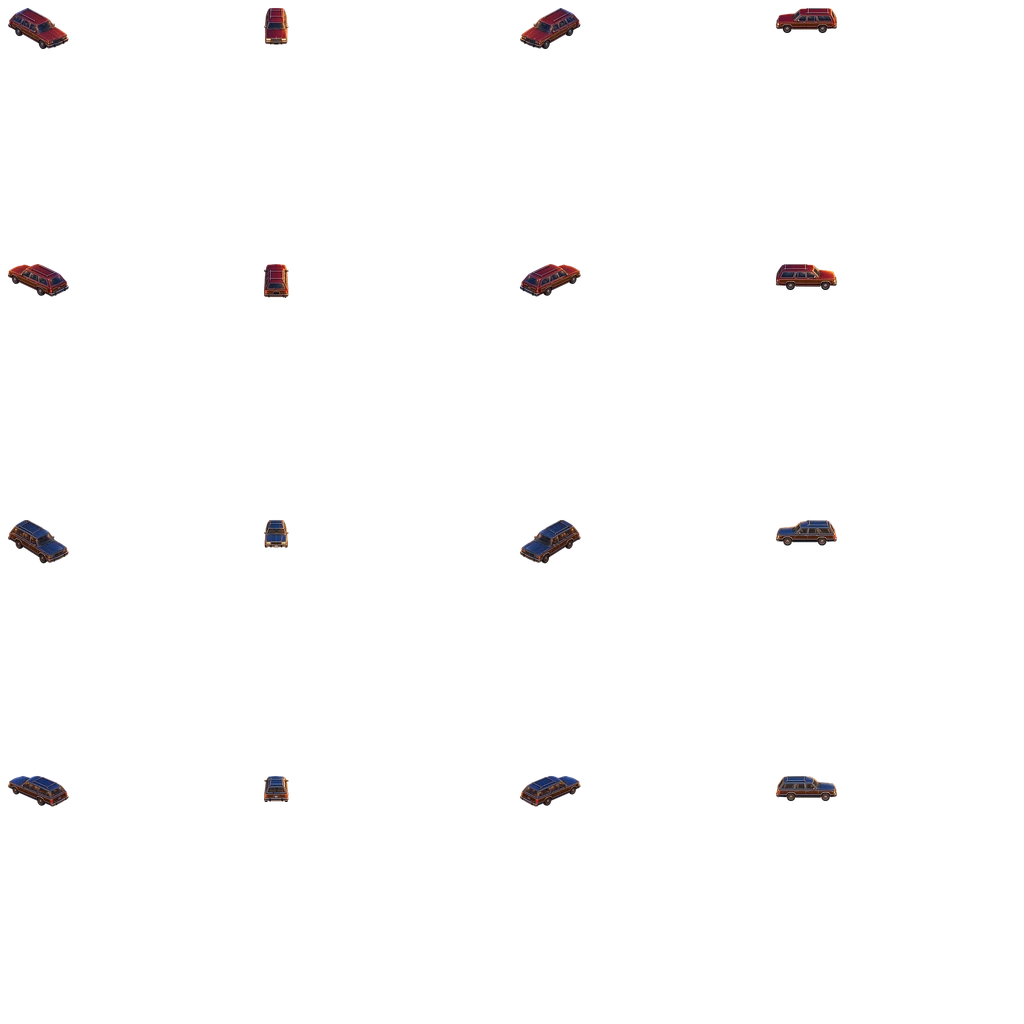
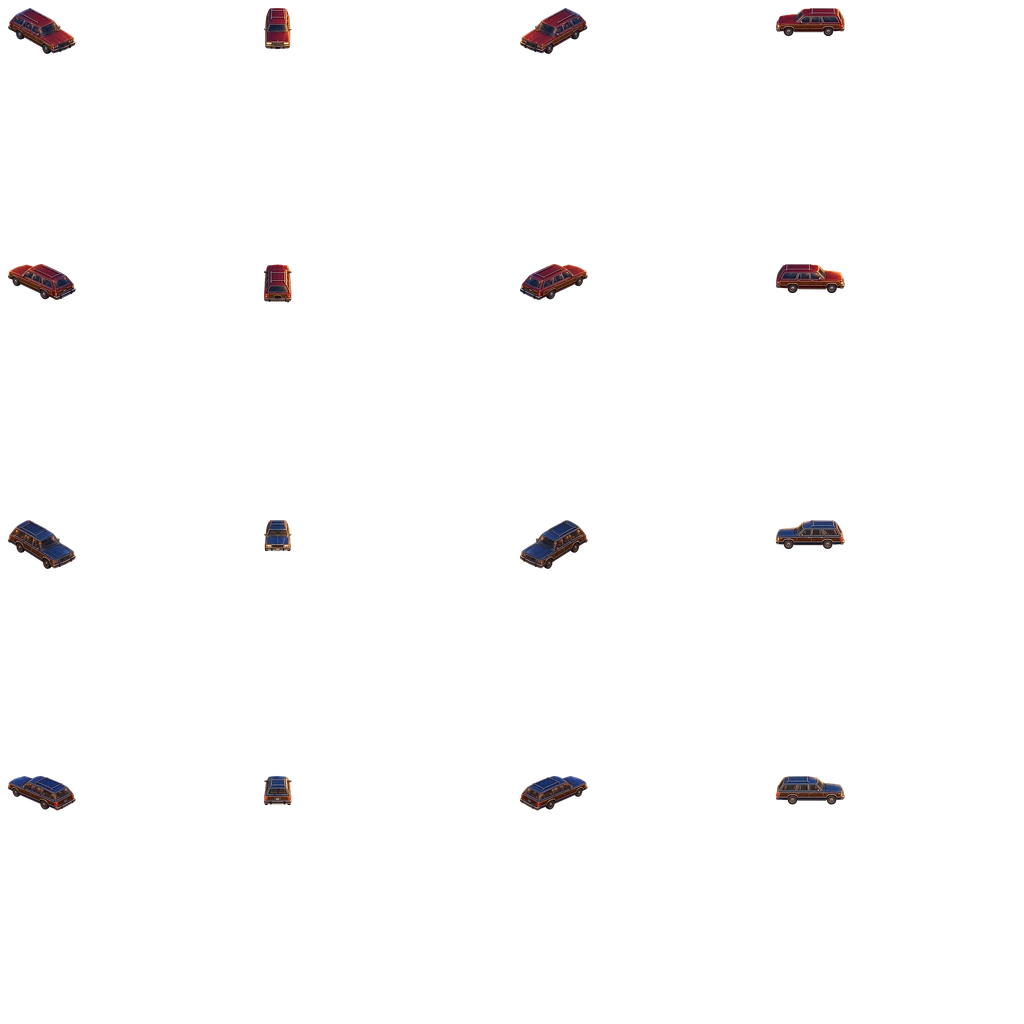
[T313] Cars: one size per class (compact 4.2 m, sedan 4.8, pickup 5.2, bus 12), each picture measured on its pixels
car-lengths.ts measures every car picture's body length from the atlas (side, end and corner views by the set's own proportions) into
ext/car-art/car-lengths.json; each model gets a class (model.mjs CAR_CLASS) and its studio size class length / (CAR_SCALE x reference);
each picture is drawn at its model's size times reference / its own length (carPictureFactor, in carOwnerScale), so every picture of a
model shows one body. The studio card and the lot editor step the model size with the factor shown. Cars page repacked at the new size.

diff --git a/src/game/cars-library.ts b/src/game/cars-library.ts
@@ -7,7 +7,7 @@ import m1 from '../assets/cars/cars-1.webp';
 import m2 from '../assets/cars/cars-2.webp';
 import m3 from '../assets/cars/cars-3.webp';
 import m4 from '../assets/cars/cars-4.webp';
-const ITEMS: LibItem[] = [{"id":"cars:burgundy-wagon:SE","name":"burgundy wagon SE","cat":"Vehicles","kind":"car","w":201.6,"h":137.3627254509018,"ax":100.8,"ay":86.96272545090179,"boxes":[{"hx":2.25,"hy":0.9,"dx":0,"dy":0}],"solid":2,"big":true,"door":false,"cost":6300,"tex":[0,0.0078125,0.0078125,0.06689453125,0.0478515625],"quad":[0,0,201.6,137.3627254509018]},{"id":"cars:burgundy-wagon:S","name":"burgundy wagon S","cat":"Vehicles","kind":"car","w":81.45870119269028,"h":121.45197918789665,"ax":40.72935059634514,"ay":70.54029094246523,"boxes":[{"hx":2.2273863607376247,"hy":2.2273863607376247,"dx":0,"dy":0}],"solid":2,"big":true,"door":false,"cost":6300,"tex":[0,0.2578125,0.0078125,0.28173828125,0.04345703125],"quad":[0,0,81.45870119269028,121.45197918789665]},{"id":"cars:burgundy-wagon:SW","name":"burgundy wagon SW","cat":"Vehicles","kind":"car","w":201.59999999999997,"h":137.36272545090176,"ax":100.79999999999998,"ay":86.96272545090176,"boxes":[{"hx":0.9000000000000001,"hy":2.25,"dx":0,"dy":0}],"solid":2,"big":true,"door":false,"cost":6300,"tex":[0,0.5078125,0.0078125,0.56689453125,0.0478515625],"quad":[0,0,201.59999999999997,137.36272545090176]},{"id":"cars:burgundy-wagon:W","name":"burgundy wagon W","cat":"Vehicles","kind":"car","w":203.64675298172568,"h":83.7092448240247,"ax":101.82337649086284,"ay":63.34456952585212,"boxes":[{"hx":2.2273863607376247,"hy":2.2273863607376247,"dx":0,"dy":0}],"solid":2,"big":true,"door":false,"cost":6300,"tex":[0,0.7578125,0.0078125,0.8173828125,0.0322265625],"quad":[0,0,203.64675298172568,83.7092448240247]},{"id":"cars:burgundy-wagon:NW","name":"burgundy wagon NW","cat":"Vehicles","kind":"car","w":201.60000000000002,"h":107.87014028056113,"ax":100.80000000000001,"ay":57.47014028056113,"boxes":[{"hx":2.25,"hy":0.9000000000000002,"dx":0,"dy":0}],"solid":2,"big":true,"door":false,"cost":6300,"tex":[0,0.0078125,0.2578125,0.06689453125,0.28955078125],"quad":[0,0,201.60000000000002,107.87014028056113]},{"id":"cars:burgundy-wagon:N","name":"burgundy wagon N","cat":"Vehicles","kind":"car","w":81.45870119269031,"h":113.9390693897757,"ax":40.72935059634516,"ay":63.02738114434427,"boxes":[{"hx":2.227386360737625,"hy":2.2273863607376247,"dx":0,"dy":0}],"solid":2,"big":true,"door":false,"cost":6300,"tex":[0,0.2578125,0.2578125,0.28173828125,0.291015625],"quad":[0,0,81.45870119269031,113.9390693897757]},{"id":"cars:burgundy-wagon:NE","name":"burgundy wagon NE","cat":"Vehicles","kind":"car","w":201.6,"h":107.87014028056112,"ax":100.8,"ay":57.47014028056111,"boxes":[{"hx":0.9000000000000005,"hy":2.25,"dx":0,"dy":0}],"solid":2,"big":true,"door":false,"cost":6300,"tex":[0,0.5078125,0.2578125,0.56689453125,0.28955078125],"quad":[0,0,201.6,107.87014028056112]},{"id":"cars:burgundy-wagon:E","name":"burgundy wagon E","cat":"Vehicles","kind":"car","w":203.6467529817257,"h":86.4379761969138,"ax":101.82337649086286,"ay":66.07330089874122,"boxes":[{"hx":2.2273863607376243,"hy":2.2273863607376247,"dx":0,"dy":0}],"solid":2,"big":true,"door":false,"cost":6300,"tex":[0,0.7578125,0.2578125,0.8173828125,0.283203125],"quad":[0,0,203.6467529817257,86.4379761969138]},{"id":"cars:navy-wood-panel-wagon:SE","name":"navy wood panel wagon SE","cat":"Vehicles","kind":"car","w":201.6,"h":145.82134387351778,"ax":100.8,"ay":95.42134387351777,"boxes":[{"hx":2.25,"hy":0.9,"dx":0,"dy":0}],"solid":2,"big":true,"door":false,"cost":6300,"tex":[0,0.0078125,0.5078125,0.06689453125,0.55029296875],"quad":[0,0,201.6,145.82134387351778]},{"id":"cars:navy-wood-panel-wagon:S","name":"navy wood panel wagon S","cat":"Vehicles","kind":"car","w":81.45870119269028,"h":91.97672030273546,"ax":40.72935059634514,"ay":41.06503205730404,"boxes":[{"hx":2.2273863607376247,"hy":2.2273863607376247,"dx":0,"dy":0}],"solid":2,"big":true,"door":false,"cost":6300,"tex":[0,0.2578125,0.5078125,0.28173828125,0.53466796875],"quad":[0,0,81.45870119269028,91.97672030273546]},{"id":"cars:navy-wood-panel-wagon:SW","name":"navy wood panel wagon SW","cat":"Vehicles","kind":"car","w":201.59999999999997,"h":145.82134387351775,"ax":100.79999999999998,"ay":95.42134387351774,"boxes":[{"hx":0.9000000000000001,"hy":2.25,"dx":0,"dy":0}],"solid":2,"big":true,"door":false,"cost":6300,"tex":[0,0.5078125,0.5078125,0.56689453125,0.55029296875],"quad":[0,0,201.59999999999997,145.82134387351775]},{"id":"cars:navy-wood-panel-wagon:W","name":"navy wood panel wagon W","cat":"Vehicles","kind":"car","w":203.64675298172568,"h":85.57805146667958,"ax":101.82337649086284,"ay":65.21337616850701,"boxes":[{"hx":2.2273863607376247,"hy":2.2273863607376247,"dx":0,"dy":0}],"solid":2,"big":true,"door":false,"cost":6300,"tex":[0,0.7578125,0.5078125,0.8173828125,0.53271484375],"quad":[0,0,203.64675298172568,85.57805146667958]},{"id":"cars:navy-wood-panel-wagon:NW","name":"navy wood panel wagon NW","cat":"Vehicles","kind":"car","w":201.60000000000002,"h":102.39367588932807,"ax":100.80000000000001,"ay":51.99367588932807,"boxes":[{"hx":2.25,"hy":0.9000000000000002,"dx":0,"dy":0}],"solid":2,"big":true,"door":false,"cost":6300,"tex":[0,0.0078125,0.7578125,0.06689453125,0.78759765625],"quad":[0,0,201.60000000000002,102.39367588932807]},{"id":"cars:navy-wood-panel-wagon:N","name":"navy wood panel wagon N","cat":"Vehicles","kind":"car","w":81.45870119269031,"h":86.62322979856692,"ax":40.72935059634516,"ay":35.7115415531355,"boxes":[{"hx":2.227386360737625,"hy":2.2273863607376247,"dx":0,"dy":0}],"solid":2,"big":true,"door":false,"cost":6300,"tex":[0,0.2578125,0.7578125,0.28173828125,0.783203125],"quad":[0,0,81.45870119269031,86.62322979856692]},{"id":"cars:navy-wood-panel-wagon:NE","name":"navy wood panel wagon NE","cat":"Vehicles","kind":"car","w":201.6,"h":102.39367588932805,"ax":100.8,"ay":51.993675889328046,"boxes":[{"hx":0.9000000000000005,"hy":2.25,"dx":0,"dy":0}],"solid":2,"big":true,"door":false,"cost":6300,"tex":[0,0.5078125,0.7578125,0.56689453125,0.78759765625],"quad":[0,0,201.6,102.39367588932805]},{"id":"cars:navy-wood-panel-wagon:E","name":"navy wood panel wagon E","cat":"Vehicles","kind":"car","w":203.6467529817257,"h":84.12757601809182,"ax":101.82337649086286,"ay":63.76290071991924,"boxes":[{"hx":2.2273863607376243,"hy":2.2273863607376247,"dx":0,"dy":0}],"solid":2,"big":true,"door":false,"cost":6300,"tex":[0,0.7578125,0.7578125,0.8173828125,0.7822265625],"quad":[0,0,203.6467529817257,84.12757601809182]}];
+const ITEMS: LibItem[] = [{"id":"cars:burgundy-wagon:SE","name":"burgundy wagon SE","cat":"Vehicles","kind":"car","w":201.6,"h":137.3627254509018,"ax":100.8,"ay":86.96272545090179,"boxes":[{"hx":2.25,"hy":0.9,"dx":0,"dy":0}],"solid":2,"big":true,"door":false,"cost":6300,"tex":[0,0.0078125,0.0078125,0.07373046875,0.052734375],"quad":[0,0,201.6,137.3627254509018]},{"id":"cars:burgundy-wagon:S","name":"burgundy wagon S","cat":"Vehicles","kind":"car","w":81.45870119269028,"h":121.45197918789665,"ax":40.72935059634514,"ay":70.54029094246523,"boxes":[{"hx":2.2273863607376247,"hy":2.2273863607376247,"dx":0,"dy":0}],"solid":2,"big":true,"door":false,"cost":6300,"tex":[0,0.2578125,0.0078125,0.28466796875,0.0478515625],"quad":[0,0,81.45870119269028,121.45197918789665]},{"id":"cars:burgundy-wagon:SW","name":"burgundy wagon SW","cat":"Vehicles","kind":"car","w":201.59999999999997,"h":137.36272545090176,"ax":100.79999999999998,"ay":86.96272545090176,"boxes":[{"hx":0.9000000000000001,"hy":2.25,"dx":0,"dy":0}],"solid":2,"big":true,"door":false,"cost":6300,"tex":[0,0.5078125,0.0078125,0.57373046875,0.052734375],"quad":[0,0,201.59999999999997,137.36272545090176]},{"id":"cars:burgundy-wagon:W","name":"burgundy wagon W","cat":"Vehicles","kind":"car","w":203.64675298172568,"h":83.7092448240247,"ax":101.82337649086284,"ay":63.34456952585212,"boxes":[{"hx":2.2273863607376247,"hy":2.2273863607376247,"dx":0,"dy":0}],"solid":2,"big":true,"door":false,"cost":6300,"tex":[0,0.7578125,0.0078125,0.82470703125,0.03515625],"quad":[0,0,203.64675298172568,83.7092448240247]},{"id":"cars:burgundy-wagon:NW","name":"burgundy wagon NW","cat":"Vehicles","kind":"car","w":201.60000000000002,"h":107.87014028056113,"ax":100.80000000000001,"ay":57.47014028056113,"boxes":[{"hx":2.25,"hy":0.9000000000000002,"dx":0,"dy":0}],"solid":2,"big":true,"door":false,"cost":6300,"tex":[0,0.0078125,0.2578125,0.07373046875,0.29296875],"quad":[0,0,201.60000000000002,107.87014028056113]},{"id":"cars:burgundy-wagon:N","name":"burgundy wagon N","cat":"Vehicles","kind":"car","w":81.45870119269031,"h":113.9390693897757,"ax":40.72935059634516,"ay":63.02738114434427,"boxes":[{"hx":2.227386360737625,"hy":2.2273863607376247,"dx":0,"dy":0}],"solid":2,"big":true,"door":false,"cost":6300,"tex":[0,0.2578125,0.2578125,0.28466796875,0.29541015625],"quad":[0,0,81.45870119269031,113.9390693897757]},{"id":"cars:burgundy-wagon:NE","name":"burgundy wagon NE","cat":"Vehicles","kind":"car","w":201.6,"h":107.87014028056112,"ax":100.8,"ay":57.47014028056111,"boxes":[{"hx":0.9000000000000005,"hy":2.25,"dx":0,"dy":0}],"solid":2,"big":true,"door":false,"cost":6300,"tex":[0,0.5078125,0.2578125,0.57373046875,0.29296875],"quad":[0,0,201.6,107.87014028056112]},{"id":"cars:burgundy-wagon:E","name":"burgundy wagon E","cat":"Vehicles","kind":"car","w":203.6467529817257,"h":86.4379761969138,"ax":101.82337649086286,"ay":66.07330089874122,"boxes":[{"hx":2.2273863607376243,"hy":2.2273863607376247,"dx":0,"dy":0}],"solid":2,"big":true,"door":false,"cost":6300,"tex":[0,0.7578125,0.2578125,0.82470703125,0.2861328125],"quad":[0,0,203.6467529817257,86.4379761969138]},{"id":"cars:navy-wood-panel-wagon:SE","name":"navy wood panel wagon SE","cat":"Vehicles","kind":"car","w":201.6,"h":145.82134387351778,"ax":100.8,"ay":95.42134387351777,"boxes":[{"hx":2.25,"hy":0.9,"dx":0,"dy":0}],"solid":2,"big":true,"door":false,"cost":6300,"tex":[0,0.0078125,0.5078125,0.07373046875,0.5556640625],"quad":[0,0,201.6,145.82134387351778]},{"id":"cars:navy-wood-panel-wagon:S","name":"navy wood panel wagon S","cat":"Vehicles","kind":"car","w":81.45870119269028,"h":91.97672030273546,"ax":40.72935059634514,"ay":41.06503205730404,"boxes":[{"hx":2.2273863607376247,"hy":2.2273863607376247,"dx":0,"dy":0}],"solid":2,"big":true,"door":false,"cost":6300,"tex":[0,0.2578125,0.5078125,0.28466796875,0.5380859375],"quad":[0,0,81.45870119269028,91.97672030273546]},{"id":"cars:navy-wood-panel-wagon:SW","name":"navy wood panel wagon SW","cat":"Vehicles","kind":"car","w":201.59999999999997,"h":145.82134387351775,"ax":100.79999999999998,"ay":95.42134387351774,"boxes":[{"hx":0.9000000000000001,"hy":2.25,"dx":0,"dy":0}],"solid":2,"big":true,"door":false,"cost":6300,"tex":[0,0.5078125,0.5078125,0.57373046875,0.5556640625],"quad":[0,0,201.59999999999997,145.82134387351775]},{"id":"cars:navy-wood-panel-wagon:W","name":"navy wood panel wagon W","cat":"Vehicles","kind":"car","w":203.64675298172568,"h":85.57805146667958,"ax":101.82337649086284,"ay":65.21337616850701,"boxes":[{"hx":2.2273863607376247,"hy":2.2273863607376247,"dx":0,"dy":0}],"solid":2,"big":true,"door":false,"cost":6300,"tex":[0,0.7578125,0.5078125,0.82470703125,0.5361328125],"quad":[0,0,203.64675298172568,85.57805146667958]},{"id":"cars:navy-wood-panel-wagon:NW","name":"navy wood panel wagon NW","cat":"Vehicles","kind":"car","w":201.60000000000002,"h":102.39367588932807,"ax":100.80000000000001,"ay":51.99367588932807,"boxes":[{"hx":2.25,"hy":0.9000000000000002,"dx":0,"dy":0}],"solid":2,"big":true,"door":false,"cost":6300,"tex":[0,0.0078125,0.7578125,0.07373046875,0.79150390625],"quad":[0,0,201.60000000000002,102.39367588932807]},{"id":"cars:navy-wood-panel-wagon:N","name":"navy wood panel wagon N","cat":"Vehicles","kind":"car","w":81.45870119269031,"h":86.62322979856692,"ax":40.72935059634516,"ay":35.7115415531355,"boxes":[{"hx":2.227386360737625,"hy":2.2273863607376247,"dx":0,"dy":0}],"solid":2,"big":true,"door":false,"cost":6300,"tex":[0,0.2578125,0.7578125,0.28466796875,0.7861328125],"quad":[0,0,81.45870119269031,86.62322979856692]},{"id":"cars:navy-wood-panel-wagon:NE","name":"navy wood panel wagon NE","cat":"Vehicles","kind":"car","w":201.6,"h":102.39367588932805,"ax":100.8,"ay":51.993675889328046,"boxes":[{"hx":0.9000000000000005,"hy":2.25,"dx":0,"dy":0}],"solid":2,"big":true,"door":false,"cost":6300,"tex":[0,0.5078125,0.7578125,0.57373046875,0.79150390625],"quad":[0,0,201.6,102.39367588932805]},{"id":"cars:navy-wood-panel-wagon:E","name":"navy wood panel wagon E","cat":"Vehicles","kind":"car","w":203.6467529817257,"h":84.12757601809182,"ax":101.82337649086286,"ay":63.76290071991924,"boxes":[{"hx":2.2273863607376243,"hy":2.2273863607376247,"dx":0,"dy":0}],"solid":2,"big":true,"door":false,"cost":6300,"tex":[0,0.7578125,0.7578125,0.82470703125,0.78564453125],"quad":[0,0,203.6467529817257,84.12757601809182]}];
 /** Append after the base library/walker frames, preserving every existing saved item index. */
 export function appendCars(library: LibItem[], pages: string[][]) {
   const page = pages.length; pages.push([m0, m1, m2, m3, m4]);

diff --git a/scripts/assets/car-lengths.ts b/scripts/assets/car-lengths.ts
@@ -1,0 +1,84 @@
+// T313 (#898): measure every car picture's body length, so every car of a class is drawn at one real-world length (ext/car-art model.mjs
+// CLASS_LENGTH). Writes src/game/ext/car-art/car-lengths.json; with --sizes it also sets each car model's studio size (scale-overrides.json) to
+// its class length over CAR_SCALE x its reference length.
+//   npx esbuild scripts/assets/car-lengths.ts --bundle --platform=node --format=esm --loader:.webp=file --loader:.png=file --external:sharp \
+//     --outdir=output/car-lengths --log-level=warning && node output/car-lengths/car-lengths.js [--sizes]
+// The measure: a picture's car pixels (alpha > 128) in its atlas rect, as display px (64 px a tile of 2 m along a screen axis, 64 sqrt 2 along a
+// world axis). Each picture is one of three kinds by where its nose points on screen:
+//   side  nose left or right: the body's width on screen is its length alone (64 sqrt 2 px a tile)
+//   end   nose up or down: its width on screen is the car's width; its length is its set's side length times its width over the set's end width
+//   diag  nose along a world axis (the iso corners): its width on screen is length + width (64 px a tile); the length is that times the set's
+//         side length over side length + end width (the set's own proportions, not the class's: a stylised bus is wider than a real one)
+// A set is the pictures of one render: an eight-way car's eight headings, a town car's facing and its four views, a screen-axis set (view:<id>:n|e|s|w).
+// Each picture's length at scale 1 is kept; a model's reference length is the median of its pictures'. A picture is drawn at its model's size times
+// reference / its own length (carPictureFactor), so a model's pictures all show one body length, and the model's size sets it.
+import fs from 'node:fs';
+import path from 'node:path';
+import { createRequire } from 'node:module';
+import { fileURLToPath } from 'node:url';
+import { LIBRARY, ATLAS_PAGES } from '../../src/game/library';
+import { CAR_SCALE, carModel } from '../../src/game/ext/car-art';
+import { CAR_CLASS, CLASS_LENGTH } from '../../src/game/ext/car-art/model.mjs';
+
+const here = path.dirname(fileURLToPath(import.meta.url)), ROOT = path.resolve(here, '../..');
+const sharp = createRequire(path.join(ROOT, 'package.json'))('sharp') as typeof import('sharp');
+const R2 = 64 * Math.SQRT2;
+type Kind = 'side' | 'end' | 'diag';
+const kindOf = (id: string): Kind => {
+  let m: RegExpExecArray | null;
+  if (id.startsWith('cars:')) return ({ SE: 'diag', SW: 'diag', NW: 'diag', NE: 'diag', S: 'end', N: 'end', E: 'side', W: 'side' } as const)[id.split(':').at(-1) as 'S']!;
+  if ((m = /^view:.+:([nesw])$/.exec(id))) return ({ n: 'end', s: 'end', e: 'side', w: 'side' } as const)[m[1] as 'n'];
+  // a variation's views: 1 the side, 2 and 3 the ends, 4 the corner (prep-views.mjs)
+  if ((m = /^variation:.+:(\d)$/.exec(id))) return ({ 1: 'side', 2: 'end', 3: 'end', 4: 'diag' } as Record<string, Kind>)[m[1]!]!;
+  return 'diag';
+};
+const setOf = (id: string): string => {
+  let m: RegExpExecArray | null;
+  if (id.startsWith('cars:')) return id.replace(/:[A-Z]+$/, '');
+  if ((m = /^view:(.+):[nesw]$/.exec(id))) return `view:${m[1]}`;
+  if ((m = /^variation:([a-z]+)-(.+)-[0-9a-f]{8}:\d$/.exec(id))) return `${m[1]}:${m[2]}`;
+  return id;
+};
+
+/** a picture's car pixels across, in display px */
+async function across(i: number): Promise<number> {
+  const it = LIBRARY[i]!, f = path.join(ROOT, 'output/car-lengths', ATLAS_PAGES[it.tex[0]]![0]!);
+  const S = (await sharp(f).metadata()).width!, [, u0, v0, u1, v1] = it.tex;
+  const left = Math.round(u0 * S), top = Math.round(v0 * S), width = Math.round((u1 - u0) * S), height = Math.round((v1 - v0) * S);
+  const { data, info } = await sharp(f).extract({ left, top, width, height }).raw().toBuffer({ resolveWithObject: true });
+  let x0 = Infinity, x1 = -1;
+  for (let y = 0; y < info.height; y++) for (let x = 0; x < info.width; x++) if (data[(y * info.width + x) * info.channels + 3]! > 128) { x0 = Math.min(x0, x); x1 = Math.max(x1, x); }
+  return (x1 - x0 + 1) / info.width * (it.quad[2] - it.quad[0]);
+}
+
+const cars = LIBRARY.map((it, i) => ({ it, i })).filter(c => c.it.kind === 'car');
+const px = new Map<string, number>();
+for (const c of cars) px.set(c.it.id, await across(c.i));
+const sets = new Map<string, string[]>();
+for (const c of cars) { const s = setOf(c.it.id); sets.set(s, [...(sets.get(s) ?? []), c.it.id]); }
+const mean = (a: number[]) => a.reduce((x, y) => x + y, 0) / a.length;
+const len: Record<string, number> = {};
+for (const [s, ids] of sets) {
+  const L = mean(ids.filter(id => kindOf(id) === 'side').map(id => px.get(id)! / R2 * 2)), W = mean(ids.filter(id => kindOf(id) === 'end').map(id => px.get(id)! / R2 * 2));
+  if (!(L > 0) || !(W > 0)) throw new Error(`${s}: a set needs a side and an end view to be measured`);
+  for (const id of ids) { const k = kindOf(id), p = px.get(id)!; len[id] = +(k === 'side' ? p / R2 * 2 : k === 'end' ? L * (p / R2 * 2) / W : p / 32 * L / (L + W)).toFixed(3); }
+}
+const models: Record<string, number> = {};
+for (const m of new Set(cars.map(c => carModel(c.it.id)))) {
+  const ls = cars.filter(c => carModel(c.it.id) === m).map(c => len[c.it.id]!).sort((a, b) => a - b);
+  models[m] = ls[Math.floor(ls.length / 2)]!;
+}
+const sorted = <T>(o: Record<string, T>) => Object.fromEntries(Object.entries(o).sort());  // overrides.mjs's order
+fs.writeFileSync(path.join(ROOT, 'src/game/ext/car-art/car-lengths.json'), JSON.stringify({ models: sorted(models), pictures: sorted(len) }, null, 1) + '\n');
+const sizes: Record<string, number> = {};
+for (const [m, ref] of Object.entries(models)) {
+  const cls = (CAR_CLASS as Record<string, keyof typeof CLASS_LENGTH>)[m];
+  if (!cls) { console.warn(`${m}: no class (model.mjs CAR_CLASS)`); continue; }
+  sizes[m] = +(CLASS_LENGTH[cls] / (CAR_SCALE * ref)).toFixed(3);
+  console.log(`${m.padEnd(28)} ${cls.padEnd(8)} reference ${ref.toFixed(2)} m at 1, size ${sizes[m]}`);
+}
+if (process.argv.includes('--sizes')) {
+  const f = path.join(ROOT, 'scripts/assets/scale-overrides.json'), cur = JSON.parse(fs.readFileSync(f, 'utf8')) as Record<string, number>;
+  fs.writeFileSync(f, JSON.stringify(sorted({ ...cur, ...sizes }), null, 1) + '\n');
+  console.log('scale-overrides.json: the car models\' sizes set');
+}

diff --git a/src/game/ext/car-art/index.ts b/src/game/ext/car-art/index.ts
@@ -1,6 +1,7 @@
 import { STUDIO_SCALE } from '../../lots/scales';
-import { carModel, carModelSize } from './model.mjs';
-export { CAR_MODEL_NAMES, carModel, carModelName, carModelSize, foldCarSizes } from './model.mjs';
+import { carModel, carModelSize, carPictureFactorIn } from './model.mjs';
+import CAR_LENGTHS from './car-lengths.json';
+export { CAR_CLASS, CAR_MODEL_NAMES, CLASS_LENGTH, carModel, carModelName, carModelSize, foldCarSizes, type CarClass } from './model.mjs';
 
 /** Eight sprite headings in world-angle order. The delivery labels describe the nose on screen. */
 export const CAR_DIRECTIONS = ['SE', 'S', 'SW', 'W', 'NW', 'N', 'NE', 'E'] as const;
@@ -15,21 +16,34 @@ export const CAR_SCALE = 0.88;
  *  (cars:<model>:<heading> -> cars:<model>), a town car's facings and their views (static:compact_n, static:compact_e-v2,
  *  variation:static-compact_n-<hash>:1 -> static:compact), a world car's views (variation:world-car_0-<hash>:2 -> world:car_0). For car ids only */
 export function carSizeId(id: string): string { return carModel(id); }
-/** a car's owner size (the sprite studio's size for its model, scale-overrides.json; 1 when unset): a car is drawn at CAR_SCALE times it, parked and
+/** a car's owner size (the sprite studio's size for its model, scale-overrides.json; 1 when unset, times its picture's factor: carPictureFactor,
+ *  T313): a car is drawn at CAR_SCALE times it, parked and
  *  moving, whichever way it faces, so cars keep the road cars' size until the owner sets one. A size the studio kept under one of the model's pictures
  *  before T143 (a facing's or a view's own key) still counts: the largest of them (carModelSize), until the studio's next save folds them into the
  *  model's key. The table's car sizes (places-v5) are not used: lot and road cars never took them */
 export function carOwnerScale(id: string, sizes: Readonly<Record<string, number>> = STUDIO_SCALE): number {
   // the studio's own sizes are read through a memo (carModelSize scans every size key: the lots ask for each car they compose, T160), kept while
   // the model's own size stands as it was (a size set or cleared by hand, as the tests do, is seen); a studio save clears it (lots/scales-live.ts)
-  if (sizes !== STUDIO_SCALE) return carModelSize(sizes, carModel(id)) ?? 1;
+  if (sizes !== STUDIO_SCALE) return (carModelSize(sizes, carModel(id)) ?? 1) * carPictureFactor(id);
   let m = MODEL_OF.get(id);
   if (m === undefined) MODEL_OF.set(id, m = carModel(id));
   const e = OWN.get(id), d = sizes[m];
   if (e && e.d === d) return e.s;
-  const s = carModelSize(sizes, m) ?? 1;
+  const s = (carModelSize(sizes, m) ?? 1) * carPictureFactor(id);
   OWN.set(id, { s, d });
   return s;
+}
+/** T313 (#898): the measured body length in metres of each car picture at scale 1, and each model's reference length (the median of its pictures'):
+ *  car-lengths.json, written by scripts/assets/car-lengths.ts from the atlas pixels */
+const LENGTHS: { models: Record<string, number>; pictures: Record<string, number> } = CAR_LENGTHS;
+/** a car picture's length at scale 1 in metres (car-lengths.json; undefined for a picture not measured yet) */
+export function carPictureLength(id: string): number | undefined { return LENGTHS.pictures[id]; }
+/** the factor a car picture is drawn at on top of its model's size, so every picture of one model shows one body length: its model's reference
+ *  length over its own (1 when either is unmeasured). An eight-way car's headings are fitted to one body (prep-cars.mjs): 1 */
+export function carPictureFactor(id: string): number { return carPictureFactorIn(LENGTHS, id); }
+/** the length in metres a car picture is drawn at (CAR_SCALE times its owner size times its length at scale 1); undefined when unmeasured */
+export function carDrawnLength(id: string, sizes: Readonly<Record<string, number>> = STUDIO_SCALE): number | undefined {
+  const own = LENGTHS.pictures[id]; return own === undefined ? undefined : CAR_SCALE * carOwnerScale(id, sizes) * own;
 }
 /** the memo of carOwnerScale over the studio's sizes (each id's size and its model's own size when it was read), and each id's model */
 const OWN = new Map<string, { s: number; d: number | undefined }>(), MODEL_OF = new Map<string, string>();

diff --git a/tests/car-class-sizes.test.ts b/tests/car-class-sizes.test.ts
@@ -1,0 +1,53 @@
+// T313 (#898, the owner: "car sizes differ drastically"): every car the game draws is drawn at its class's real-world length (ext/car-art
+// CLASS_LENGTH: compact 4.2 m, sedan 4.8, SUV, pickup and van 5.2, bus 12), within 5%, on every picture of it (its headings, facings and views),
+// parked and moving. The lengths are measured on the pictures (car-lengths.json, scripts/assets/car-lengths.ts). Headless: npm test.
+import { test } from 'node:test';
+import assert from 'node:assert/strict';
+import { CAR_CLASS, CAR_SCALE, CLASS_LENGTH, carDrawnLength, carModel, carOwnerScale, carPictureFactor, carPictureLength } from '../src/game/ext/car-art';
+import { LIBRARY } from '../src/game/library';
+import { REMOVED_IDS } from '../src/game/lots/scales';
+import { lookOf } from '../src/game/newart';
+import { facings } from '../src/game/traffic';
+import type { Drawable } from '../src/game/sprites';
+
+const removed = new Set(REMOVED_IDS);
+const CARS = LIBRARY.map((it, i) => ({ it, i })).filter(c => c.it.kind === 'car' && !removed.has(c.it.id));
+const TOL = 0.05;
+const classOf = (id: string) => CAR_CLASS[carModel(id)];
+
+test('every car model has a class and every car picture a measured length', () => {
+  assert.ok(CARS.length > 0);
+  for (const { it } of CARS) {
+    assert.ok(classOf(it.id), `${it.id}: its model ${carModel(it.id)} needs a class (ext/car-art/model.mjs CAR_CLASS)`);
+    assert.ok((carPictureLength(it.id) ?? 0) > 0, `${it.id}: not measured (run scripts/assets/car-lengths.ts)`);
+  }
+});
+
+test('every car picture is drawn within 5% of its class length', () => {
+  const bad: string[] = [];
+  for (const { it } of CARS) {
+    const want = CLASS_LENGTH[classOf(it.id)!], got = carDrawnLength(it.id)!;
+    if (Math.abs(got / want - 1) > TOL) bad.push(`${it.id} (${classOf(it.id)}): ${got.toFixed(2)} m, want ${want} m`);
+  }
+  assert.deepEqual(bad, []);
+});
+
+test('no car picture is drawn smaller than asked (its pixel cap), parked or moving', () => {
+  for (const { it, i } of CARS) {
+    const s = carOwnerScale(it.id);
+    const parked: Drawable = { item: i, x: 0, y: 0, flip: false, scale: s, x0: -1, y0: -1, x1: 1, y1: 1 };
+    const moving: Drawable = { ...parked, scale: CAR_SCALE * s, moving: true };
+    for (const d of [parked, moving]) { const l = lookOf(d); assert.ok(l.item === i && Math.abs(l.scale - d.scale) < 1e-9, `${it.id}${d.moving ? ' moving' : ''}: drawn as ${LIBRARY[l.item]!.id} at ${l.scale}, asked ${d.scale}`); }
+  }
+});
+
+test('the road cars are one size: every traffic car (sedans and the bus) at its class length whichever way it faces', () => {
+  for (const set of facings()) for (const f of set) {
+    const id = LIBRARY[f.item]!.id, want = CLASS_LENGTH[classOf(id)!], got = CAR_SCALE * f.size * carPictureLength(id)!;
+    assert.ok(Math.abs(got / want - 1) <= TOL, `${id}: ${got.toFixed(2)} m on the road, want ${want} m`);
+  }
+});
+
+test('an eight-way car\'s headings are one body: its picture factor is 1', () => {
+  for (const { it } of CARS) if (it.id.startsWith('cars:')) assert.equal(carPictureFactor(it.id), 1, it.id);
+});

diff --git a/tests/cars-size.test.ts b/tests/cars-size.test.ts
@@ -3,7 +3,7 @@
 // (ownerScaleOf). A decal's studio size is packed into its strip (prep-decals.mjs), so it is not tested here. Headless: npm test.
 import { test } from 'node:test';
 import assert from 'node:assert/strict';
-import { CAR_DIRECTIONS, CAR_SCALE, carModelSize, carOwnerScale, carSizeId } from '../src/game/ext/car-art';
+import { CAR_DIRECTIONS, CAR_SCALE, carModelSize, carOwnerScale, carPictureFactor, carSizeId } from '../src/game/ext/car-art';
 import { facings } from '../src/game/traffic';
 import { LIBRARY } from '../src/game/library';
 import { STUDIO_SCALE } from '../src/game/lots/scales';
@@ -32,15 +32,15 @@ test('a car takes its model\'s size: the eight headings share one key, a town ca
 
 test('a car\'s owner size is its studio size for its model, 1 when unset; the table\'s car sizes are not used', () => {
   assert.equal(carOwnerScale(CAR), carModelSize(STUDIO_SCALE, MODEL) ?? 1);
-  assert.equal(carOwnerScale('world:car_0'), carModelSize(STUDIO_SCALE, 'world:car_0') ?? 1, 'OWNER_SCALE holds 1.371 for world:car_0; a car never takes it');
+  assert.equal(carOwnerScale('world:car_0'), (carModelSize(STUDIO_SCALE, 'world:car_0') ?? 1) * carPictureFactor('world:car_0'), 'OWNER_SCALE holds 1.371 for world:car_0; a car never takes it');
   const sizes = { [MODEL]: 1.25 };
   for (const d of CAR_DIRECTIONS) assert.equal(carOwnerScale(`${MODEL}:${d}`, sizes), 1.25, `${d}: every heading of the model`);
   assert.equal(carOwnerScale(OTHER, sizes), 1, 'another model keeps its own size');
-  assert.equal(carOwnerScale('static:compact_e', { 'static:compact': 1.19 }), 1.19, 'a town car is keyed by its model');
-  assert.equal(carOwnerScale('variation:static-compact_w-3465d046:2', { 'static:compact': 1.19 }), 1.19, 'its views too');
+  assert.equal(carOwnerScale('static:compact_e', { 'static:compact': 1.19 }), 1.19 * carPictureFactor('static:compact_e'), 'a town car is keyed by its model (times its picture factor, T313)');
+  assert.equal(carOwnerScale('variation:static-compact_w-3465d046:2', { 'static:compact': 1.19 }), 1.19 * carPictureFactor('variation:static-compact_w-3465d046:2'), 'its views too');
   // a size kept under a facing's or a view's own key before T143 still counts, the largest of them, until the studio folds them into the model's key
   const old = { 'static:compact_e': 1.166, 'static:compact_w': 1.259, 'variation:static-compact_n-82988799:1': 1.08, 'static:compact': 1.1 };
-  for (const id of ['static:compact_n', 'static:compact_e', 'static:compact_w', 'variation:static-compact_s-0c90743f:4']) assert.equal(carOwnerScale(id, old), 1.259, `${id}: the largest of the model's keys`);
+  for (const id of ['static:compact_n', 'static:compact_e', 'static:compact_w', 'variation:static-compact_s-0c90743f:4']) assert.equal(carOwnerScale(id, old), 1.259 * carPictureFactor(id), `${id}: the largest of the model's keys`);
 });
 
 test('traffic: every facing carries its model\'s owner size, so the cars on the road are drawn at it', () => {

diff --git a/src/game/dev/lot-editor.ts b/src/game/dev/lot-editor.ts
@@ -28,7 +28,7 @@ import { ATLAS_PAGES, ATLAS_SIZE, LIBRARY } from '../library';
 import { spriteRect, type Drawable } from '../sprites';
 import { worldX, worldY } from '../iso';
 import { OWNER_SCALE, TABLE_SCALE } from '../lots/scales';
-import { carOwnerScale, carSizeId, foldCarSizes } from '../ext/car-art';
+import { carModelSize, carSizeId, foldCarSizes } from '../ext/car-art';
 import { lookOf, maxDrawScale, refreshSizeRange, softAt } from '../newart';
 import { compose, lotPreset, lotPresets, lotPresetsMeta, onLotPresetsReload, setLotPresets, type PresetDrop } from '../lots/compose';
 import { formatPresets, type LotPreset, type PresetProp } from '../lots/presets';
@@ -506,9 +506,9 @@ export function installLotEditor(game: Game, canvas: HTMLCanvasElement): () => v
     const it = LIBRARY[item]!, car = isCar(it.id), id = car ? carSizeId(it.id) : sizeKey(it.id);
     if (a === 'bigger' || a === 'smaller') {
       // the studio's rule (server.mjs /api/scale): its size, else the table's (a car's: 1, the size of its model), times the step; never past the pixels of any of its views
-      // a car's size is its model's (carOwnerScale: a size the studio kept under one of its pictures' own keys before T143 counts, the largest), and the
+      // a car's size is its model's (carModelSize, the model's own size without its picture's factor, T313: a size the studio kept under one of its pictures' own keys before T143 counts, the largest), and the
       // save folds those keys into the model's (foldCarSizes), as the studio's save does
-      const text = await load('scale-overrides.json'), sizes = JSON.parse(text) as Record<string, number>, base = car ? 1 : TABLE_SCALE[id] ?? OWNER_SCALE[id] ?? 1, cur = car ? carOwnerScale(it.id, sizes) : sizes[id] ?? base;
+      const text = await load('scale-overrides.json'), sizes = JSON.parse(text) as Record<string, number>, base = car ? 1 : TABLE_SCALE[id] ?? OWNER_SCALE[id] ?? 1, cur = car ? carModelSize(sizes, id) ?? 1 : sizes[id] ?? base;
       const lim = artLimit(car ? it.id : id), next = growWithin(cur, a === 'bigger' ? GROW : 1 / GROW, lim);
       if (next === null) return say(refused(id, lim));
       const out = car ? { ...foldCarSizes(sizes, CAR_IDS), [id]: +next.toFixed(3) } : scaleOverride(sizes, id, base, next / cur), views = sizeViews(id), before = views.map(v => [v, OWNER_SCALE[v]] as const);

diff --git a/tests/car-size-studio.test.ts b/tests/car-size-studio.test.ts
@@ -9,7 +9,7 @@ import assert from 'node:assert/strict';
 import fs from 'node:fs';
 import { LIBRARY } from '../src/game/library';
 import { spriteRect, type Drawable } from '../src/game/sprites';
-import { CAR_SCALE, carModel, carModelSize, carOwnerScale } from '../src/game/ext/car-art';
+import { CAR_SCALE, carModel, carModelSize, carOwnerScale, carPictureFactor } from '../src/game/ext/car-art';
 import { PIXEL_LIMIT, PIXEL_SLACK } from '../src/game/sizes';
 import { footprintOf, ownerScaleOf, turned } from '../src/game/lots/preset-art';
 import { compose, lotPresets } from '../src/game/lots/compose';
@@ -25,10 +25,10 @@ const INDEX = new Map(LIBRARY.map((it, i) => [it.id, i] as const)), Z = 0.3;
 const html = fs.readFileSync('scripts/assets/review/studio.html', 'utf8');
 const lines = ['const PIXEL_SLACK', 'const drawnOf'].map(h => html.split('\n').find(l => l.startsWith(h))!);
 const drawnOf = new Function(`${lines.join('\n')}\nreturn drawnOf;`)() as (s: Record<string, unknown>) => { quad: number[]; k: number };
-/** a car's card as the studio builds it (server.mjs /api/sprites: its model's size, CAR_SCALE; size-report.ts: sharp, the picture's limit) and its
+/** a car's card as the studio builds it (server.mjs /api/sprites: its model's size, CAR_SCALE times its picture's factor (T313); size-report.ts: sharp, the picture's limit) and its
  *  drawn width at zoom Z (studio.html stage(): the quad's width x k x K) */
 function cardWidth(id: string): number {
-  const it = LIBRARY[INDEX.get(id)!]!, s = { id, quad: it.quad, scale: carModelSize(STUDIO_SCALE, carModel(id)) ?? 1, carScale: CAR_SCALE, sharp: PIXEL_LIMIT[INDEX.get(id)!]! * PIXEL_SLACK / CAR_SCALE, cap: maxDrawScale(INDEX.get(id)!) };
+  const it = LIBRARY[INDEX.get(id)!]!, s = { id, quad: it.quad, scale: carModelSize(STUDIO_SCALE, carModel(id)) ?? 1, carScale: CAR_SCALE * carPictureFactor(id), sharp: PIXEL_LIMIT[INDEX.get(id)!]! * PIXEL_SLACK / CAR_SCALE, cap: maxDrawScale(INDEX.get(id)!) };
   const d = drawnOf(s); return (d.quad[2]! - d.quad[0]!) * d.k * Z;
 }
 /** a car composed on a lot as the engine places it (its scale, the footprint at it) and its drawn width at zoom Z (sprites.ts spriteRect) */

diff --git a/tests/car-model.test.ts b/tests/car-model.test.ts
@@ -6,7 +6,7 @@ import { test } from 'node:test';
 import assert from 'node:assert/strict';
 import fs from 'node:fs';
 import path from 'node:path';
-import { CAR_DIRECTIONS, carModel, carModelName, carModelSize, carOwnerScale, foldCarSizes } from '../src/game/ext/car-art';
+import { CAR_DIRECTIONS, carModel, carModelName, carModelSize, carOwnerScale, carPictureFactor, foldCarSizes } from '../src/game/ext/car-art';
 import { LIBRARY } from '../src/game/library';
 
 const REMOVED = JSON.parse(fs.readFileSync(path.join(process.cwd(), 'scripts/assets/removed.json'), 'utf8')) as Record<string, { kind?: string }>;
@@ -51,11 +51,11 @@ test('a model\'s size is its own key, else the largest kept under its pictures\'
   assert.equal(carModelSize(sizes, 'world:car_1'), 1.2);
   assert.equal(carModelSize(sizes, 'static:compact'), 1.08);
   assert.equal(carModelSize(sizes, 'world:schoolbus'), undefined);
-  // a size set on the model reaches every picture of it, in the game's reading of the sizes (carOwnerScale)
+  // a size set on the model reaches every picture of it, in the game's reading of the sizes (carOwnerScale: times the picture's factor, T313)
   const set = { 'static:compact': 1.3, 'world:car_0': 1.1 };
-  for (const id of CAR_IDS) if (carModel(id) === 'static:compact') assert.equal(carOwnerScale(id, set), 1.3, id);
-  for (const id of CAR_IDS) if (carModel(id) === 'world:car_0') assert.equal(carOwnerScale(id, set), 1.1, id);
-  for (const id of CAR_IDS) if (carModel(id) === 'world:car_1') assert.equal(carOwnerScale(id, set), 1, `${id}: unset`);
+  for (const id of CAR_IDS) if (carModel(id) === 'static:compact') assert.ok(Math.abs(carOwnerScale(id, set) - 1.3 * carPictureFactor(id)) < 1e-12, id);
+  for (const id of CAR_IDS) if (carModel(id) === 'world:car_0') assert.ok(Math.abs(carOwnerScale(id, set) - 1.1 * carPictureFactor(id)) < 1e-12, id);
+  for (const id of CAR_IDS) if (carModel(id) === 'world:car_1') assert.ok(Math.abs(carOwnerScale(id, set) - carPictureFactor(id)) < 1e-12, `${id}: unset`);
 });
 
 test('folding the sizes: one key per car model (the largest), the other keys as they were, and the file\'s order is the studio\'s to keep', () => {
